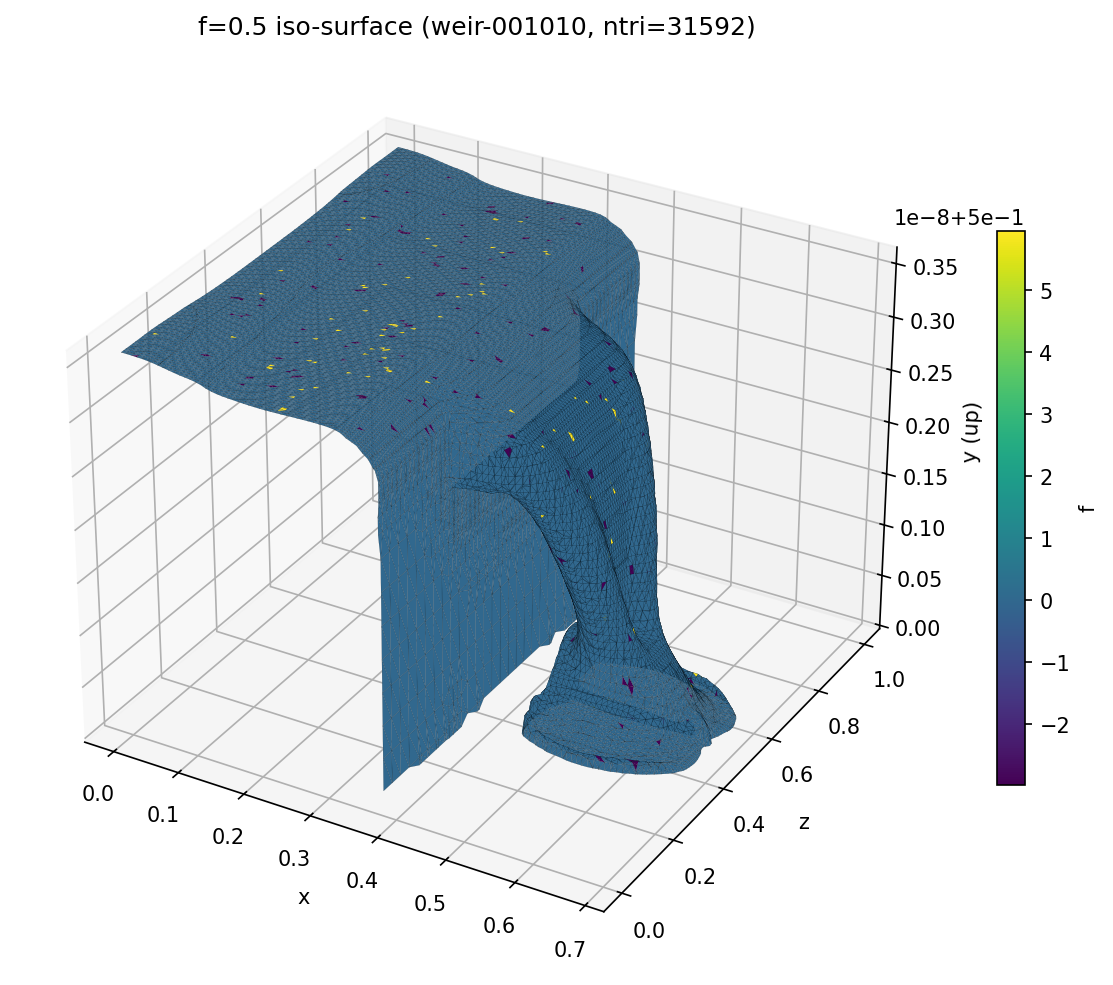
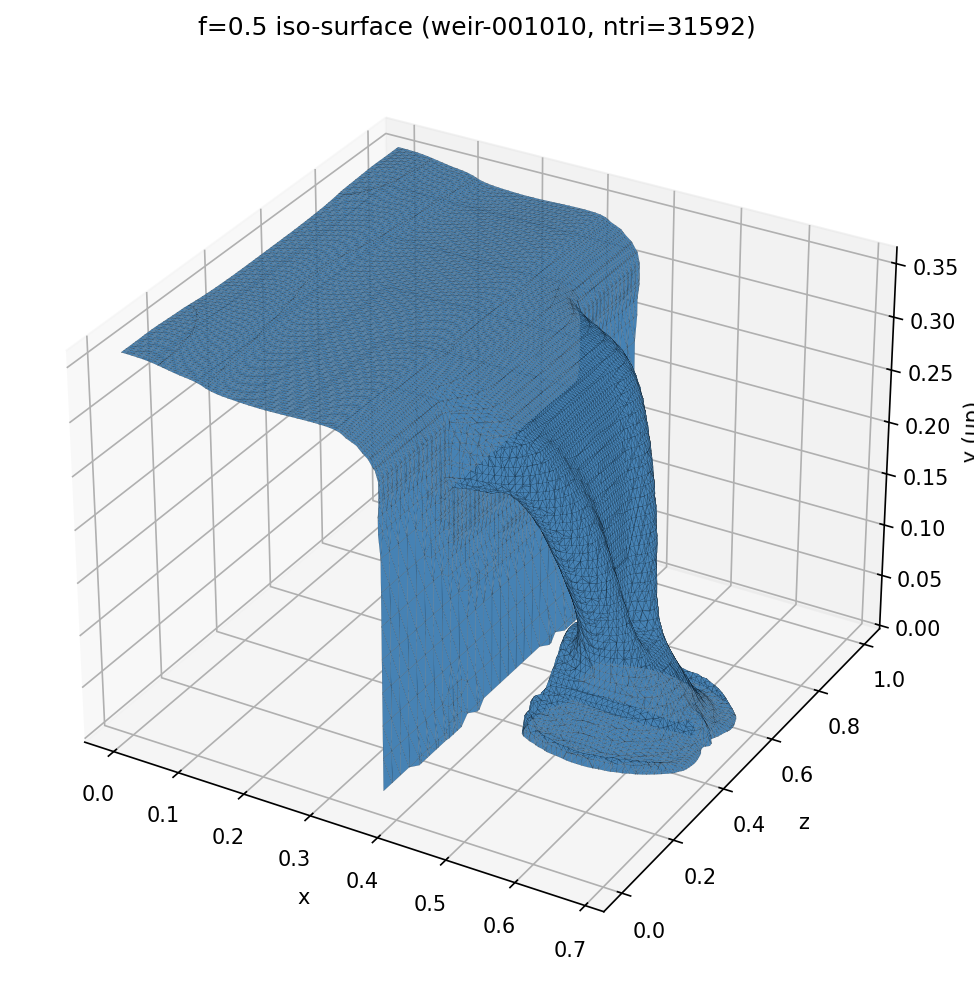
up

diff --git a/README.md b/README.md
@@ -213,15 +213,18 @@ amriso.dump3d('assets/weir-001010-iso', xyz, tri, attr)
 xs = xyz[:, [0, 2, 1]]
 fig = plt.figure(figsize=(10, 8))
 ax = fig.add_subplot(111, projection='3d')
-ta = attr[tri].mean(axis=1)
-norm = plt.Normalize(ta.min(), ta.max())
-poly = Poly3DCollection(xs[tri], facecolors=plt.cm.viridis(norm(ta)),
+poly = Poly3DCollection(xs[tri], facecolor='steelblue',
                         edgecolor='k', linewidth=0.05)
 ax.add_collection3d(poly)
 ax.auto_scale_xyz(xs[:, 0], xs[:, 1], xs[:, 2])
 ax.set_xlabel('x'); ax.set_ylabel('z'); ax.set_zlabel('y (up)')
 plt.savefig('weir.png', dpi=150, bbox_inches='tight')
+
+amriso.dump3d('weir-iso', xyz, tri, attr)
 ```
+
+The `dump3d` call writes `weir-iso.xdmf2`, `weir-iso.xyz.raw`,
+`weir-iso.tri.raw`, and `weir-iso.attr.raw` for viewing in ParaView.
 
 ![weir 3D iso-surface](img/weir3d.png)
 
